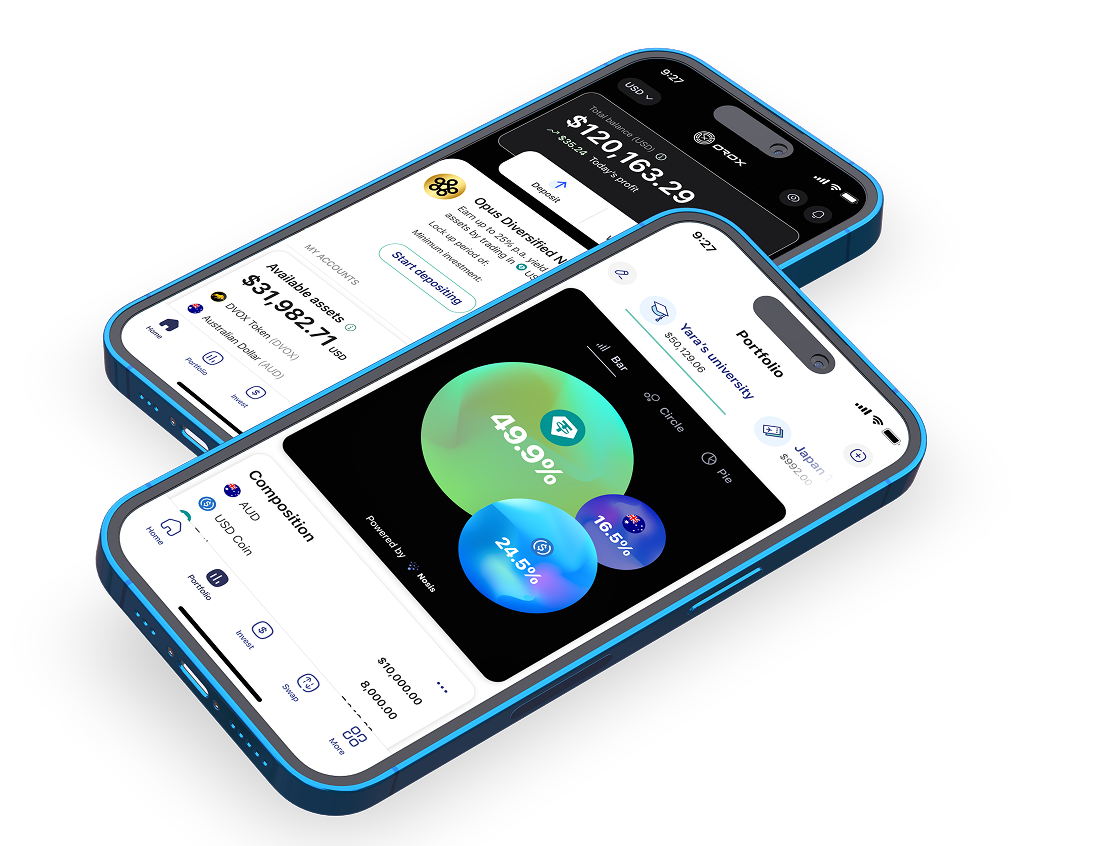
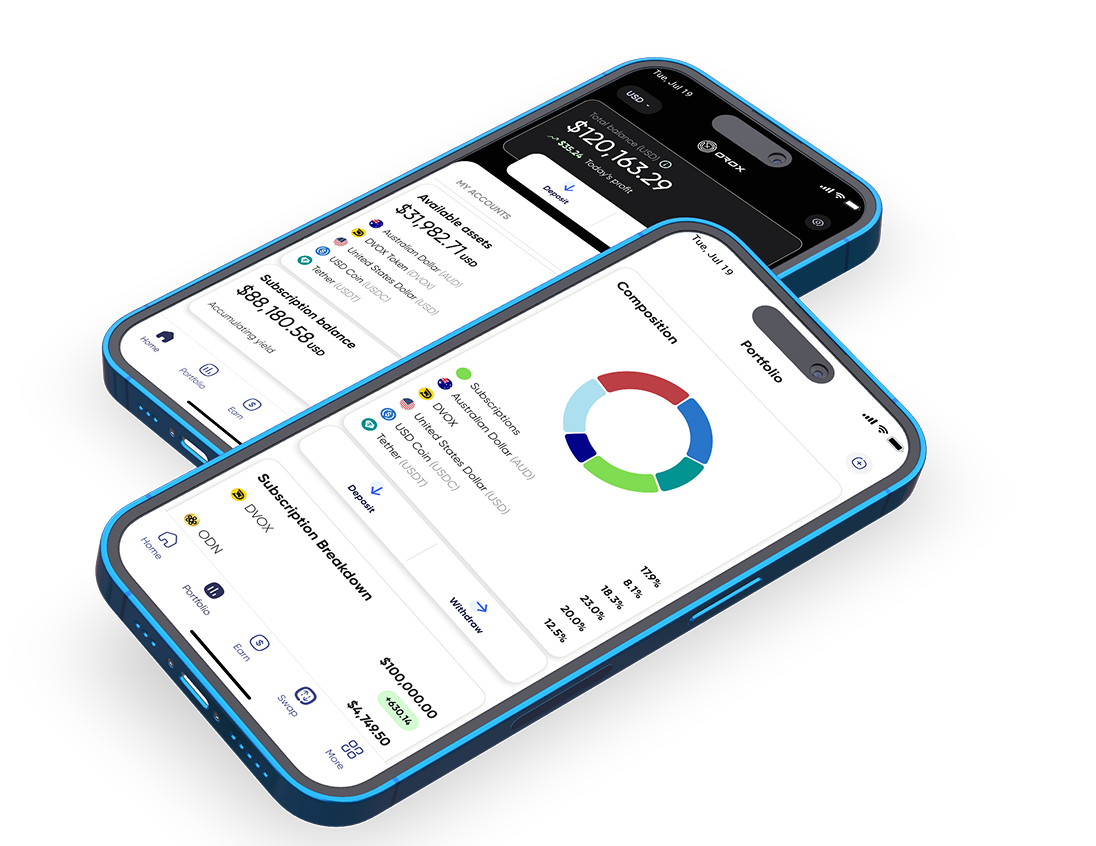
Merge pull request #52 from creutodev2/dev
Prod Release

Pull request: Prod Release

Changed region(s): [[0.0931, 0.0307, 0.8686, 0.9835], [0.7135, 0.5225, 0.7445, 0.5532], [0.6825, 0.4917, 0.7135, 0.5225]]

diff --git a/app/components/Blog/HomeBlog.tsx b/app/components/Blog/HomeBlog.tsx
@@ -1,7 +1,12 @@
 "use client";
 import { BlogCard } from "./BlogCard";
-import { useState, useEffect } from "react";
-import { useSwipeable } from "react-swipeable";
+import { useState, useEffect, useRef } from "react";
+import { Swiper, SwiperSlide } from "swiper/react";
+import { Navigation, Pagination } from "swiper/modules";
+import type { Swiper as SwiperType } from "swiper";
+import "swiper/css";
+import "swiper/css/navigation";
+import "swiper/css/pagination";
 
 const articles = [
   {
@@ -65,8 +70,8 @@ const articles = [
 ];
 
 export const HomeBlog = () => {
-  const [currentSlide, setCurrentSlide] = useState(0);
   const [isMobile, setIsMobile] = useState(false);
+  const swiperRef = useRef<SwiperType | null>(null);
 
   useEffect(() => {
     const handleResize = () => setIsMobile(window.innerWidth < 768);
@@ -74,30 +79,6 @@ export const HomeBlog = () => {
     window.addEventListener("resize", handleResize);
     return () => window.removeEventListener("resize", handleResize);
   }, []);
-
-  // const CARD_WIDTH = isMobile ? 315 : 392;
-  // const CARD_GAP = isMobile ? 24 : 48;
-  const STEP = isMobile ? 315 : 385;
-  const VISIBLE = isMobile ? 1 : 3;
-  const MAX_SLIDE = Math.max(0, articles.length - VISIBLE);
-
-  const nextSlide = () => {
-    setCurrentSlide((prev) => (prev >= MAX_SLIDE ? 0 : prev + 1));
-  };
-
-  const prevSlide = () => {
-    setCurrentSlide((prev) => (prev === 0 ? MAX_SLIDE : prev - 1));
-  };
-
-  const handlers = useSwipeable({
-    onSwipedLeft: nextSlide,
-    onSwipedRight: prevSlide,
-    swipeDuration: 250,
-    preventScrollOnSwipe: true,
-    trackMouse: true,
-    trackTouch: true,
-    delta: 10,
-  });
 
   return (
     <section className="relative z-10 w-full bg-white px-[16px] py-[48px] md:px-[80px] md:py-[88px] overflow-hidden">
@@ -109,54 +90,33 @@ export const HomeBlog = () => {
           </h2>
 
           {/* Articles Slider */}
-          <div className="relative touch-pan-y" {...handlers}>
-            <div
-              className="flex gap-6 md:gap-8 will-change-transform"
-              style={{
-                transform: `translate3d(-${currentSlide * STEP}px, 0, 0)`,
-                transition: "transform 0.3s cubic-bezier(0.4, 0, 0.2, 1)",
-                WebkitBackfaceVisibility: "hidden",
-                backfaceVisibility: "hidden",
-              }}
+          <div className="relative">
+            <Swiper
+              onSwiper={(swiper) => (swiperRef.current = swiper)}
+              modules={[Navigation, Pagination]}
+              spaceBetween={isMobile ? 24 : 48}
+              slidesPerView={isMobile ? 1 : 3}
+              loop={true}
+              speed={300}
+              grabCursor={true}
+              className="!overflow-visible"
             >
-              {/* keep your manual list of cards unchanged */}
-              <div className="flex flex-row gap-[24px] md:gap-[48px]">
-                {articles?.map((article, index) => {
-                  return (
-                      <BlogCard
-                          key={article?.title + index}
-                          image={article.image}
-                          title={article.title}
-                          description={article.description}
-                          link={article.link}
-                      />
-                  )
-                })}
-                {/*<BlogCard*/}
-                {/*  image={articles[1].image}*/}
-                {/*  title={articles[1].title}*/}
-                {/*  description={articles[1].description}*/}
-                {/*  link={articles[1].link}*/}
-                {/*/>*/}
-                {/*<BlogCard*/}
-                {/*  image={articles[2].image}*/}
-                {/*  title={articles[2].title}*/}
-                {/*  description={articles[2].description}*/}
-                {/*  link={articles[2].link}*/}
-                {/*/>*/}
-                {/*<BlogCard*/}
-                {/*  image={articles[3].image}*/}
-                {/*  title={articles[3].title}*/}
-                {/*  description={articles[3].description}*/}
-                {/*  link={articles[3].link}*/}
-                {/*/>*/}
-              </div>
-            </div>
+              {articles.map((article, index) => (
+                <SwiperSlide key={article.title + index}>
+                  <BlogCard
+                    image={article.image}
+                    title={article.title}
+                    description={article.description}
+                    link={article.link}
+                  />
+                </SwiperSlide>
+              ))}
+            </Swiper>
 
             {/* Navigation Buttons */}
             <div className="mt-[40px] md:mt-[80px] flex justify-center space-x-4">
               <button
-                onClick={prevSlide}
+                onClick={() => swiperRef.current?.slidePrev()}
                 className="inline-flex h-[56px] w-[56px] items-center justify-center rounded-full bg-gray-100 text-[#293483] hover:text-[#212A69] hover:bg-gray-200 transition-transform duration-300 ease-in-out transform hover:scale-110"
               >
                 <svg
@@ -177,7 +137,7 @@ export const HomeBlog = () => {
                 </svg>
               </button>
               <button
-                onClick={nextSlide}
+                onClick={() => swiperRef.current?.slideNext()}
                 className="inline-flex h-[56px] w-[56px] items-center justify-center rounded-full bg-[#293483] hover:bg-[#212A69] text-white transform transition-transform duration-300 ease-in-out hover:scale-110"
               >
                 <svg

diff --git a/app/components/About/TeamSection.tsx b/app/components/About/TeamSection.tsx
@@ -75,7 +75,7 @@ export const TeamSection = () => {
                   <h3 className="mt-[24px] text-[20px] md:text-[24px] lg:text-[28px] font-bold text-[#19191B] leading-[32px] md:leading-[36px] lg:leading-[40px]">
                     {member.name}
                   </h3>
-                  <p className="text-[#19191B] text-[16px] md:text-[18px] lg:text-[20px] leading-[24px] md:leading-[28px] lg:leading-[32px] mt-[8px] w-[308px]">
+                  <p className="text-[#19191B] text-[16px] md:text-[18px] lg:text-[20px] leading-[24px] md:leading-[28px] lg:leading-[32px] mt-[8px]">
                     {member.role}
                   </p>
                 </div>
@@ -96,7 +96,7 @@ export const TeamSection = () => {
                   <h3 className="mt-[24px] text-[20px] md:text-[24px] lg:text-[28px] font-bold text-[#19191B] leading-[32px] md:leading-[36px] lg:leading-[40px]">
                     {member.name}
                   </h3>
-                  <p className="text-[#19191B] text-[16px] md:text-[18px] lg:text-[20px] leading-[24px] md:leading-[28px] lg:leading-[32px] mt-[8px] w-[308px]">
+                  <p className="text-[#19191B] text-[16px] md:text-[18px] lg:text-[20px] leading-[24px] md:leading-[28px] lg:leading-[32px] mt-[8px]">
                     {member.role}
                   </p>
                 </div>

diff --git a/app/components/Blog/BlogCard.tsx b/app/components/Blog/BlogCard.tsx
@@ -21,7 +21,7 @@ export const BlogCard = ({
       className="group space-y-4 w-[295px] md:w-[356px] flex-shrink-0 hover:shadow-[0px_24px_16px_-10px_#0000001A] transition-all duration-300 rounded-[16px] md:rounded-[32px]"
     >
       {/* Image Container */}
-      <div className="relative overflow-hidden rounded-[24px] md:rounded-[32px] w-[295px] h-[372px] md:w-auto md:h-[448px] ">
+      <div className="relative overflow-hidden rounded-[24px] md:rounded-[32px] w-full h-[372px] md:h-[448px]">
         <Image
           src={image}
           alt={title}